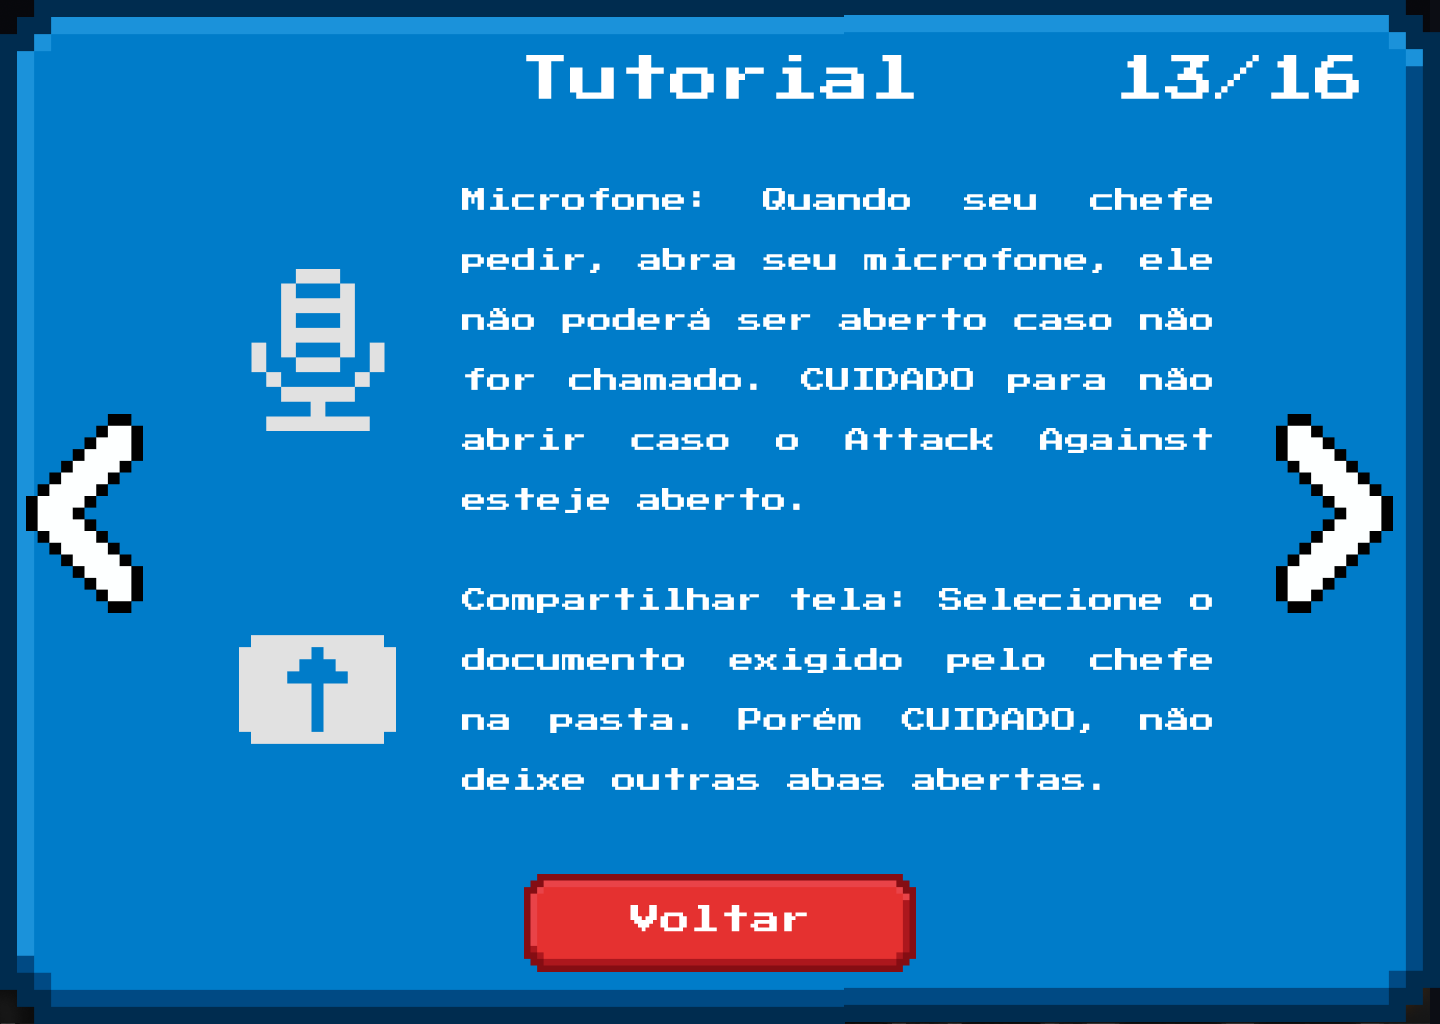
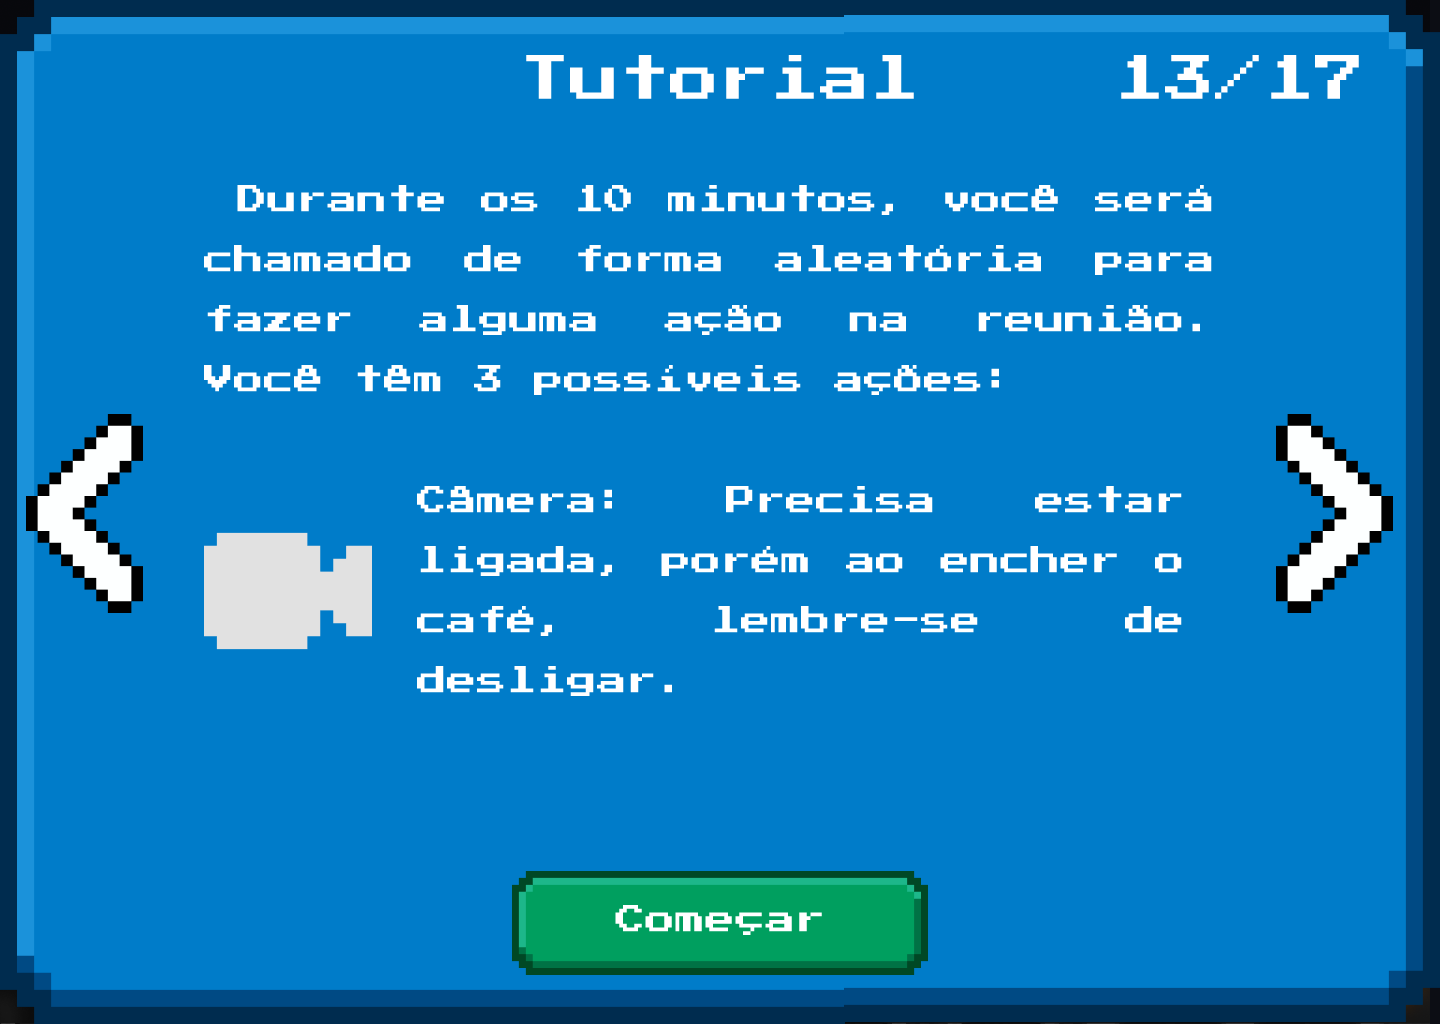
tutorial atualizado

diff --git a/client/js/tela_inicial/tutorial.js b/client/js/tela_inicial/tutorial.js
@@ -24,9 +24,8 @@ localStorage.setItem('isRun', true);
 
 verificarLogin();
 
-// 🔁 Preload das 16 imagens do tutorial
 const imagensTutorial = [];
-for (let i = 1; i <= 16; i++) {
+for (let i = 1; i <= 17; i++) {
     const img = new Image();
     img.src = `../../assets/tutorial/tutorial${i}.png`;
     imagensTutorial.push(img);
@@ -61,7 +60,7 @@ function clicarSetaDireita() {
     game.appendChild(setaEsquerda);
     setaEsquerda.addEventListener('click', clicarSetaEsquerda);
 
-    if (tutorial === 16) {
+    if (tutorial === 17) {
         document.querySelector('#seta-direita')?.remove();
     }
 }

diff --git a/client/css/tela_inicial/tutorial.css b/client/css/tela_inicial/tutorial.css
@@ -63,7 +63,7 @@
 #voltar {
     position: absolute;
     height: calc(100 * var(--un));
-    width: calc(380 * var(--un));
+    width: calc(400 * var(--un));
     top: calc(845 * var(--un));
     left: 50%;
     transform: translate(-50%, 0);
